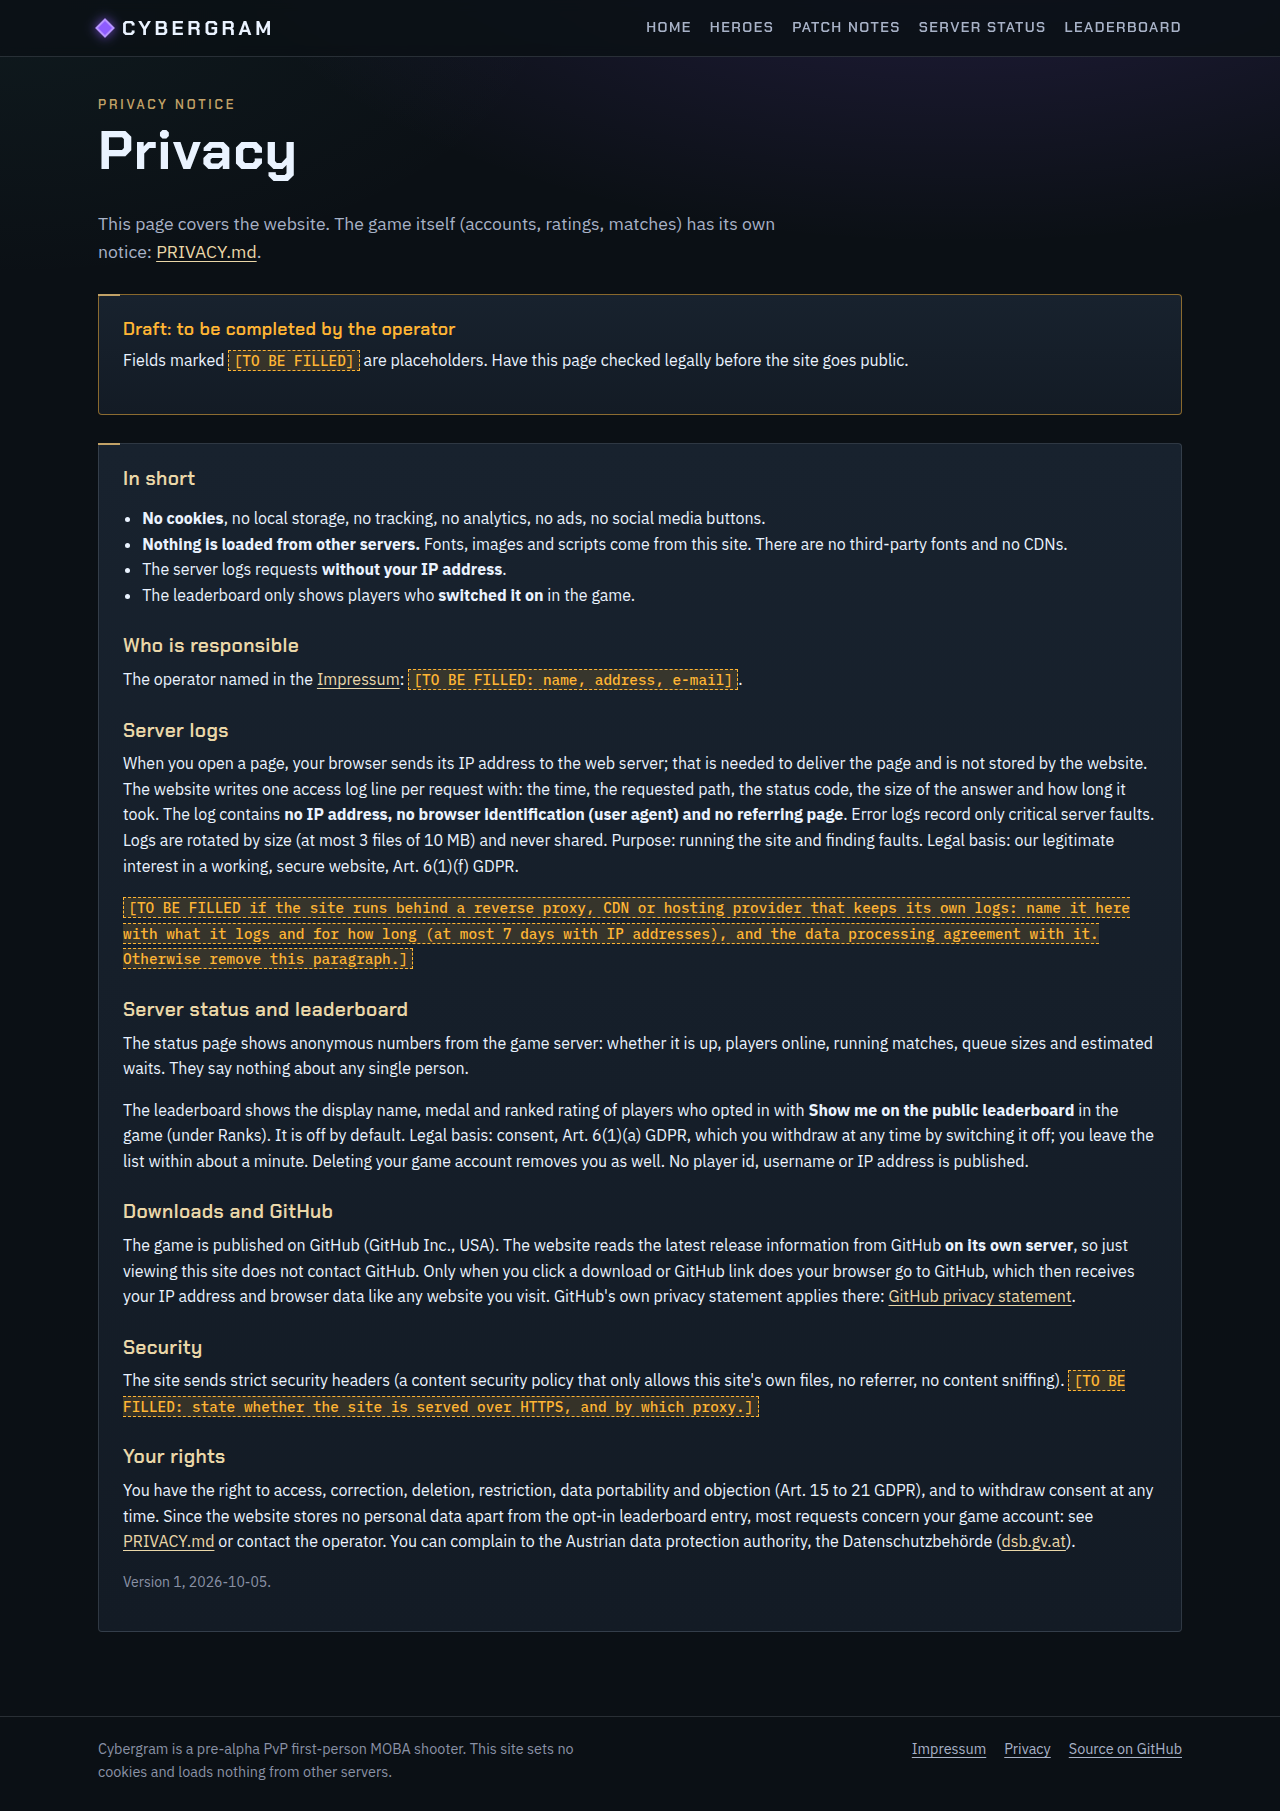
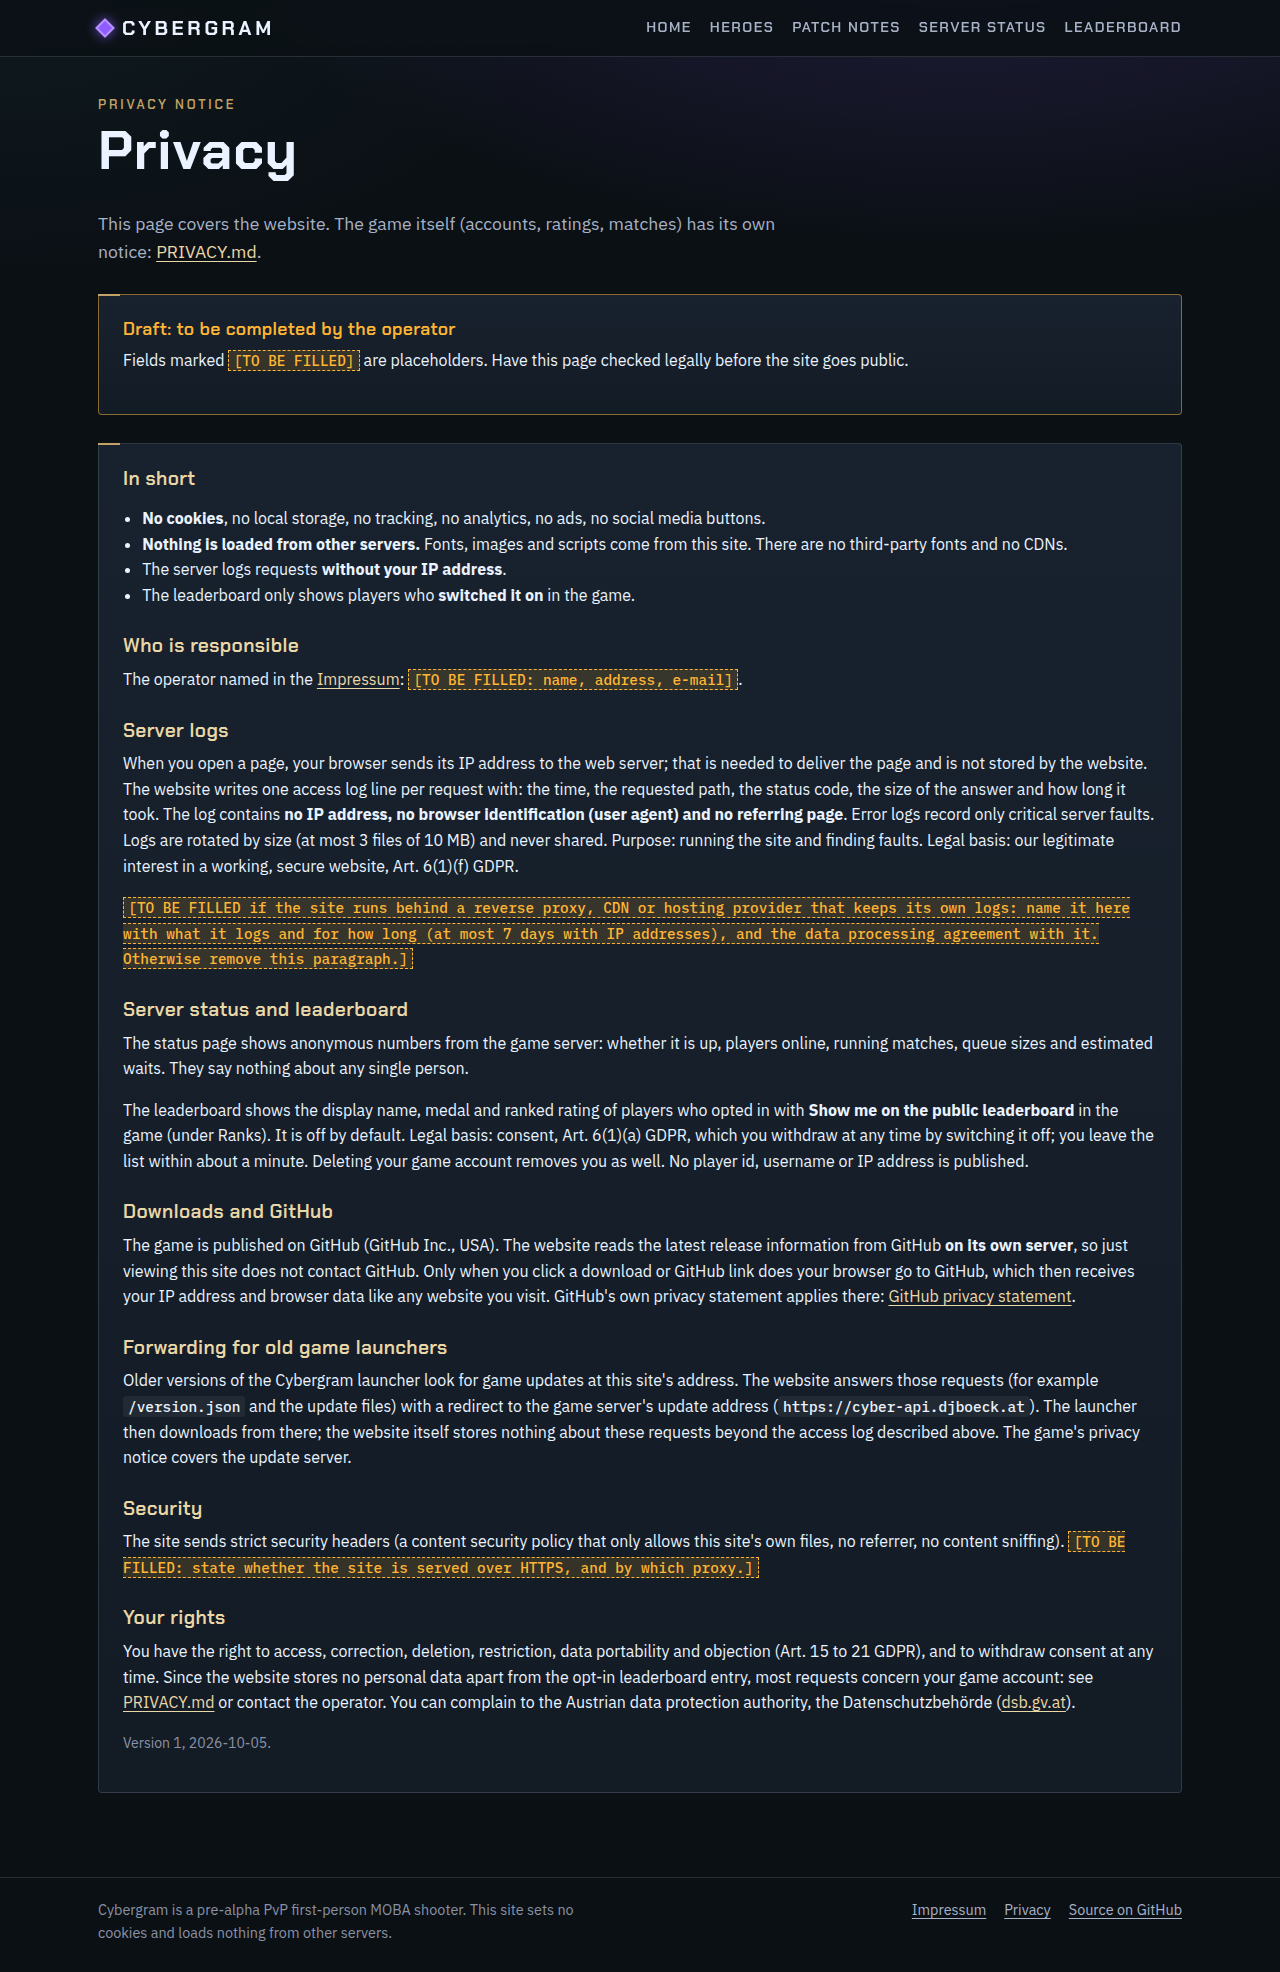
feat(hosting): website on host 8080, API on 8081, 301s for old launchers
- docker-compose: game server HTTP side on ${CYBERGRAM_API_PORT:-8081},
  website on ${CYBERGRAM_WEB_PORT:-8080} (ports inside unchanged), for a
  TLS proxy serving cyber.djboeck.at and cyber-api.djboeck.at.
- Website nginx answers the update feed paths (version.json(.sig),
  status.json, blobs/, files/, game/, launcher/, Cybergram*.zip /
  .tar.gz / .AppImage, *.zsync) with a 301 to CYBERGRAM_API_URL,
  rendered at container start by 30-cybergram-api.sh (validated).
- Server image: the update host also serves /snapshot.json read-only
  (symlink to the public snapshot); CI checks it.
- web/smoke.sh checks the redirects; HOSTING.md, SERVER.md, privacy
  page and PRIVACY.md updated (ports, proxy, Caddy example, forwarding).

Story: W20-WEB

Claude-Session: https://claude.ai/code/session_01EBZx3Dxb731aDMrCTE9Ggu

diff --git a/web/pages/privacy.html b/web/pages/privacy.html
@@ -53,6 +53,13 @@
     you visit. GitHub's own privacy statement applies there:
     <a href="https://docs.github.com/site-policy/privacy-policies/github-general-privacy-statement" rel="noopener">GitHub privacy statement</a>.</p>
 
+  <h2 id="forwarding">Forwarding for old game launchers</h2>
+  <p>Older versions of the Cybergram launcher look for game updates at this site's address. The website answers
+    those requests (for example <code>/version.json</code> and the update files) with a redirect to the game server's
+    update address (<code>https://cyber-api.djboeck.at</code>). The launcher
+    then downloads from there; the website itself stores nothing about these requests beyond the access log
+    described above. The game's privacy notice covers the update server.</p>
+
   <h2 id="security">Security</h2>
   <p>The site sends strict security headers (a content security policy that only allows this site's own files, no
     referrer, no content sniffing). <span class="todo">[TO BE FILLED: state whether the site is served over HTTPS, and by

diff --git a/docs/HOSTING.md b/docs/HOSTING.md
@@ -9,8 +9,13 @@ behind a VPS relay. Setup basics (image, accounts, TLS, update host) are in
 
 | `CYBERGRAM_MODE` | What runs | Ports |
 |---|---|---|
-| `single` | One process: the lobby and one match on UDP 7777, as before. | 7777/udp, 8080/tcp |
-| `front` (default since v0.13) | The front (accounts, parties, queues) on UDP 7777, plus one headless process per match on the match port range. | 7777/udp, 7800-7809/udp, 8080/tcp |
+| `single` | One process: the lobby and one match on UDP 7777, as before. | 7777/udp, 8081/tcp (HTTP) |
+| `front` (default since v0.13) | The front (accounts, parties, queues) on UDP 7777, plus one headless process per match on the match port range. | 7777/udp, 7800-7809/udp, 8081/tcp (HTTP) |
+
+Host ports are the compose defaults. Inside the container the HTTP side
+(launcher update feed, `status.json`, `snapshot.json`) always listens on 8080;
+compose publishes it on host **8081** (`CYBERGRAM_API_PORT`) since W20-WEB,
+and the optional website takes host **8080** (see *Website*).
 
 Front mode is the default from v0.13 (queues, draft, ratings). `single` stays
 selectable as the rollback. In front mode a match crash ends only that match: it is voided (no rating change)
@@ -34,7 +39,9 @@ and its players are re-queued.
 | `CYBERGRAM_MOTD_FILE` | `/data/motd.txt` | Path inside the container of the launcher message of the day. |
 | `CYBERGRAM_TLS_DIR` | `./tls` | (compose only) The host folder with `fullchain.pem` and `privkey.pem`. |
 | `CYBERGRAM_PUBLIC_DIR` | `/public` | Folder where the front writes `snapshot.json` for the website every 5 s (see *Website*). Empty switches it off. |
-| `CYBERGRAM_WEB_PORT` | `8081` | (compose, `web` profile) The website's TCP port on the host. |
+| `CYBERGRAM_API_PORT` | `8081` | (compose) Host TCP port of the game server's HTTP side (update feed, `status.json`, `snapshot.json`). Behind the proxy as `https://cyber-api.djboeck.at`. |
+| `CYBERGRAM_WEB_PORT` | `8080` | (compose, `web` profile) Host TCP port of the website. Behind the proxy as `https://cyber.djboeck.at`. |
+| `CYBERGRAM_API_URL` | `https://cyber-api.djboeck.at` | (website) Public URL of the HTTP side. Old launchers' feed requests to the website get a 301 there. |
 | `CYBERGRAM_RELEASE_FETCH` | `1` | (website) `0` stops the website container from reading the latest release from the GitHub API. |
 
 No variable or path is NAS-specific. The same compose file runs on a VPS.
@@ -49,7 +56,8 @@ accounts stay in the `/data` volume; nothing is migrated.
    `CYBERGRAM_PUBLIC_HOST` (DynDNS name or VPS domain) and, on the NAS,
    `CYBERGRAM_TLS_DIR=/srv/cybergram/tls`.
 3. **Forward UDP 7800-7809** (router to NAS, or `ufw allow 7800:7809/udp` and the
-   provider panel on a VPS), next to the existing 7777/udp and 8080/tcp.
+   provider panel on a VPS), next to the existing 7777/udp and the HTTP ports
+   (see *Which ports to open*).
 4. **Generate the ticket key** and put it in `.env`:
    `echo "k1:$(openssl rand -hex 32)"` gives the line to paste after
    `CYBERGRAM_TICKET_KEYS=`. Without it a random key is made at each start,
@@ -122,17 +130,28 @@ Widen `CYBERGRAM_MATCH_PORTS` if `MAX_MATCHES` is larger than 10.
 
 - **UDP 7777**: the lobby and the front.
 - **UDP 7800-7809** (or your `CYBERGRAM_MATCH_PORTS`): the matches. Front mode only, but open it now so the switch needs no firewall change.
-- **TCP 8080**: launcher updates and the status file.
-- **TCP 8081** (optional): the website, if you run it (see *Website*). Usually
-  you put a TLS reverse proxy in front and open 443 instead.
+- **TCP 80 and 443**: the TLS reverse proxy (Caddy, Traefik, nginx) that
+  serves `https://cyber.djboeck.at` (the website, host 8080) and
+  `https://cyber-api.djboeck.at` (the game server's HTTP side: launcher
+  updates, `status.json`, `snapshot.json`; host 8081).
+- **TCP 8080** (plain HTTP, the website): keep it open while launchers 1.4.0
+  and older are around. They ask `http://cyber.djboeck.at:8080/version.json`;
+  the website answers their feed paths with a 301 to `cyber-api`.
+- **Without the website** nothing listens on host 8080 any more, so old
+  launchers would lose their feed: set `CYBERGRAM_API_PORT=8080` in `.env` to
+  keep the HTTP side on its old port.
+- **TCP 8081** does not need to be public when the proxy runs on the same
+  host (it reaches it locally). Without a proxy, open it instead of 80/443.
 - On a VPS, open the ports in **both** the OS firewall (`ufw allow 7777/udp`,
-  `ufw allow 7800:7809/udp`, `ufw allow 8080/tcp`) and the provider's panel.
+  `ufw allow 7800:7809/udp`, `ufw allow 80/tcp`, `ufw allow 443/tcp`,
+  `ufw allow 8080/tcp`) and the provider's panel.
 
 ## Setup 1: home NAS (today)
 
 1. Use `tools/server/docker-compose.yml`. Put `CYBERGRAM_TLS_DIR=/srv/cybergram/tls`
    (your folder) in a `.env` file next to it.
-2. On the router, forward UDP 7777, UDP 7800-7809 and TCP 8080 to the NAS.
+2. On the router, forward UDP 7777, UDP 7800-7809, TCP 80, TCP 443 (the
+   reverse proxy) and TCP 8080 (old launchers, see above) to the NAS.
 3. Set `CYBERGRAM_PUBLIC_HOST` to your DynDNS name.
 
 The drawback: players learn your home IP address (see DDoS below).
@@ -156,12 +175,15 @@ tunnel to the NAS, so only the VPS address is public.
    table ip nat {
      chain prerouting { type nat hook prerouting priority -100;
        iifname "eth0" udp dport { 7777, 7800-7809 } dnat to 10.8.0.2
-       iifname "eth0" tcp dport 8080 dnat to 10.8.0.2 }
+       iifname "eth0" tcp dport { 80, 443, 8080 } dnat to 10.8.0.2 }
      chain postrouting { type nat hook postrouting priority 100;
        oifname "wg0" masquerade }
    }
    ```
-   Also enable `net.ipv4.ip_forward=1`.
+   Also enable `net.ipv4.ip_forward=1`. The reverse proxy (80/443) runs on
+   the NAS next to the containers. Or run it on the VPS instead and forward
+   only 8080 (the website) and 8081 (the HTTP side) to the proxy's upstreams
+   through the tunnel.
 3. On the NAS, set `CYBERGRAM_PUBLIC_HOST` to the **VPS** domain. The container
    still binds all addresses. This is why the advertised address and the bind
    address are separate.
@@ -220,7 +242,8 @@ internet, and your ISP cannot filter it for you.
 A small public website (`web/`, image `ghcr.io/letsmanu/cybergram-web`, one
 per release) runs next to the game server: home page with downloads, heroes,
 patch notes, live server status, the ranked leaderboard, Impressum and
-privacy. It is static nginx; the live parts come from two local JSON files:
+privacy. It is static nginx on host port 8080, behind the TLS proxy as
+`https://cyber.djboeck.at`. The live parts come from two local JSON files:
 
 - `/data/snapshot.json`: the front writes it every 5 s into
   `CYBERGRAM_PUBLIC_DIR` (`/public`), a volume shared read-only with the web
@@ -239,10 +262,37 @@ privacy. It is static nginx; the live parts come from two local JSON files:
 1. Add `COMPOSE_PROFILES=web` to the `.env` file next to
    `tools/server/docker-compose.yml` (or pass `--profile web`).
 2. `docker compose -f tools/server/docker-compose.yml up -d`. The site is on
-   `http://<host>:8081` (`CYBERGRAM_WEB_PORT`).
-3. For a public site put a TLS reverse proxy in front (Caddy, Traefik or
-   nginx with Let's Encrypt), forward your domain to port 8081, and set HSTS
-   there. Do not expose 8081 directly to the internet without TLS.
+   `http://<host>:8080` (`CYBERGRAM_WEB_PORT`), the game server's HTTP side
+   on `http://<host>:8081` (`CYBERGRAM_API_PORT`).
+3. TLS reverse proxy (Caddy, Traefik or nginx with Let's Encrypt) on 80/443:
+   `cyber.djboeck.at` -> `127.0.0.1:8080`, `cyber-api.djboeck.at` ->
+   `127.0.0.1:8081`. Set HSTS there. A Caddyfile example:
+   ```
+   cyber.djboeck.at {
+     reverse_proxy 127.0.0.1:8080
+   }
+   cyber-api.djboeck.at {
+     reverse_proxy 127.0.0.1:8081
+   }
+   ```
+
+**Old launchers.** Launchers 1.4.0 and older ask
+`http://cyber.djboeck.at:8080/version.json` and the files next to it, which is
+now the website. The website answers every update feed path (`/version.json`,
+`/version.json.sig`, `/status.json`, `/blobs/`, `/files/`, `/game/`,
+`/launcher/`, `Cybergram*.zip` / `.tar.gz` / `.AppImage`, `*.zsync`) with a
+**301** to the same path on `CYBERGRAM_API_URL` (default
+`https://cyber-api.djboeck.at`; set at container start, URL-safe characters
+only). The launcher follows redirects (manifest, signature, status and the
+resumable downloader; tested in `launcher/tests/e2e_upd.sh` step 11). New
+launchers use `https://cyber-api.djboeck.at/version.json` and rewrite the
+old default in `launcher.cfg` on start; a custom `version_url` is kept.
+Keep TCP 8080 reachable over plain HTTP until the old launchers have
+updated themselves.
+
+The game server's HTTP side also serves `/snapshot.json` read-only (the same
+anonymous file the website reads), so `https://cyber-api.djboeck.at/snapshot.json`
+works for other tools.
 
 The container runs as an unprivileged user with a read-only root, no Linux
 capabilities, a strict Content Security Policy, `Referrer-Policy:
@@ -267,6 +317,8 @@ it shows "offline").
 - **Privacy** (`web/pages/privacy.html`): fill the operator contact, the
   reverse proxy / hosting paragraph (or delete it) and whether HTTPS is used.
 - Have both pages and `PRIVACY.md` checked legally (lawyer or WKO).
+- Point the DNS names `cyber.djboeck.at` and `cyber-api.djboeck.at` at the
+  host and set up the TLS proxy.
 - Rebuild the image after editing (or edit and build in CI with the next
   release).
 

diff --git a/docs/SERVER.md b/docs/SERVER.md
@@ -93,7 +93,7 @@ settings** and set the visibility to **Public**. Alternatively, run
 
 Requires an **x86_64** NAS (Intel/AMD CPU). ARM models cannot run it.
 
-### Update host for the launcher (TCP 8080)
+### Update host for the launcher (TCP 8080 in the container, host 8081)
 
 The same image also serves the latest client builds, so the **Cybergram
 launcher** can update players without GitHub (works while the repo is
@@ -102,14 +102,16 @@ server and serves `/version.json` (version, patch notes, per-platform file,
 size, sha256) plus the Windows and Linux zips. They are baked into the image
 at release time, so **updating the container updates the launcher feed**.
 
-- **Portainer / compose:** map **8080/tcp → 8080** as well as UDP 7777. The
-  compose file in `tools/server/` already does.
-- **Router:** forward **TCP 8080** to the NAS if players outside your LAN
-  should auto-update. Optional: without it they download the zip from the
-  GitHub release by hand.
-- **Check it:** `curl http://cyber.djboeck.at:8080/version.json`.
+- **Portainer / compose:** map host **8081/tcp → 8080** as well as UDP 7777
+  (`CYBERGRAM_API_PORT`). The compose file in `tools/server/` already does.
+  Host 8080 is the website now (docs/HOSTING.md "Website").
+- **TLS proxy:** serve it as `https://cyber-api.djboeck.at` (reverse proxy on
+  80/443 to host 8081). Forward TCP 80 and 443 on the router.
+- **Check it:** `curl https://cyber-api.djboeck.at/version.json`.
 - The launcher reads the URL from `launcher.cfg` (`version_url`), default
-  `http://cyber.djboeck.at:8080/version.json`.
+  `https://cyber-api.djboeck.at/version.json`. The old default
+  `http://cyber.djboeck.at:8080/version.json` is migrated on start, and the
+  website redirects old launchers that still use it.
 - The image gets bigger by the two client zips. An image built without
   them (empty `tools/server/updates/`) simply has the update host off.
 

diff --git a/PRIVACY.md b/PRIVACY.md
@@ -195,7 +195,8 @@ username, no player id, no match history, no IP address.
 anonymous numbers only: whether the server is up, how many players are
 online, how many matches run, how many players wait in each queue and the
 estimated wait. These numbers say nothing about any single person. The
-website's own privacy page (no cookies, no trackers, its server logs) is
+same file (with the opt-in leaderboard) is also served read-only next to the
+launcher update feed. The website's own privacy page (no cookies, no trackers, its server logs) is
 part of the website.
 
 ## Legal basis
